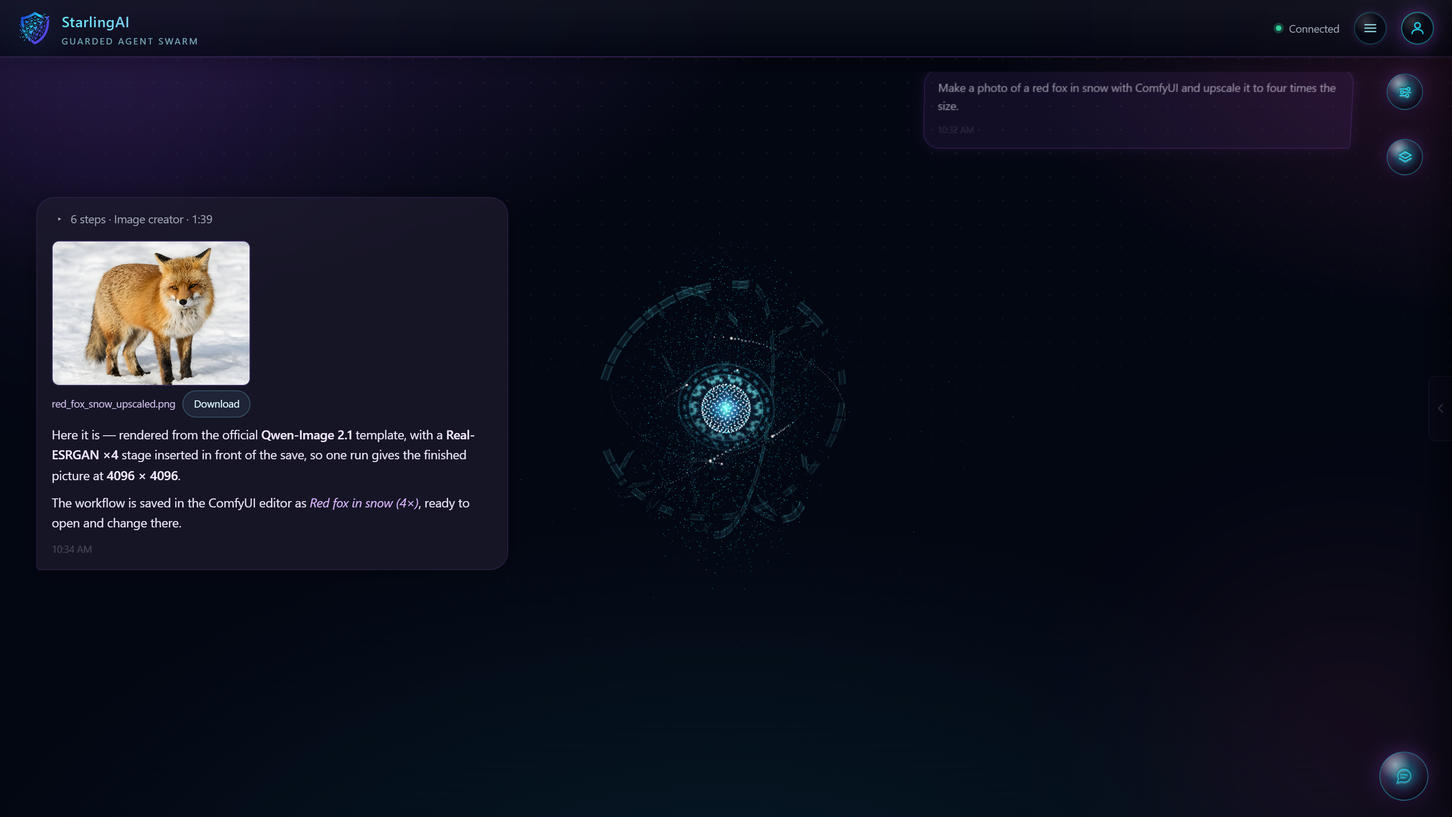
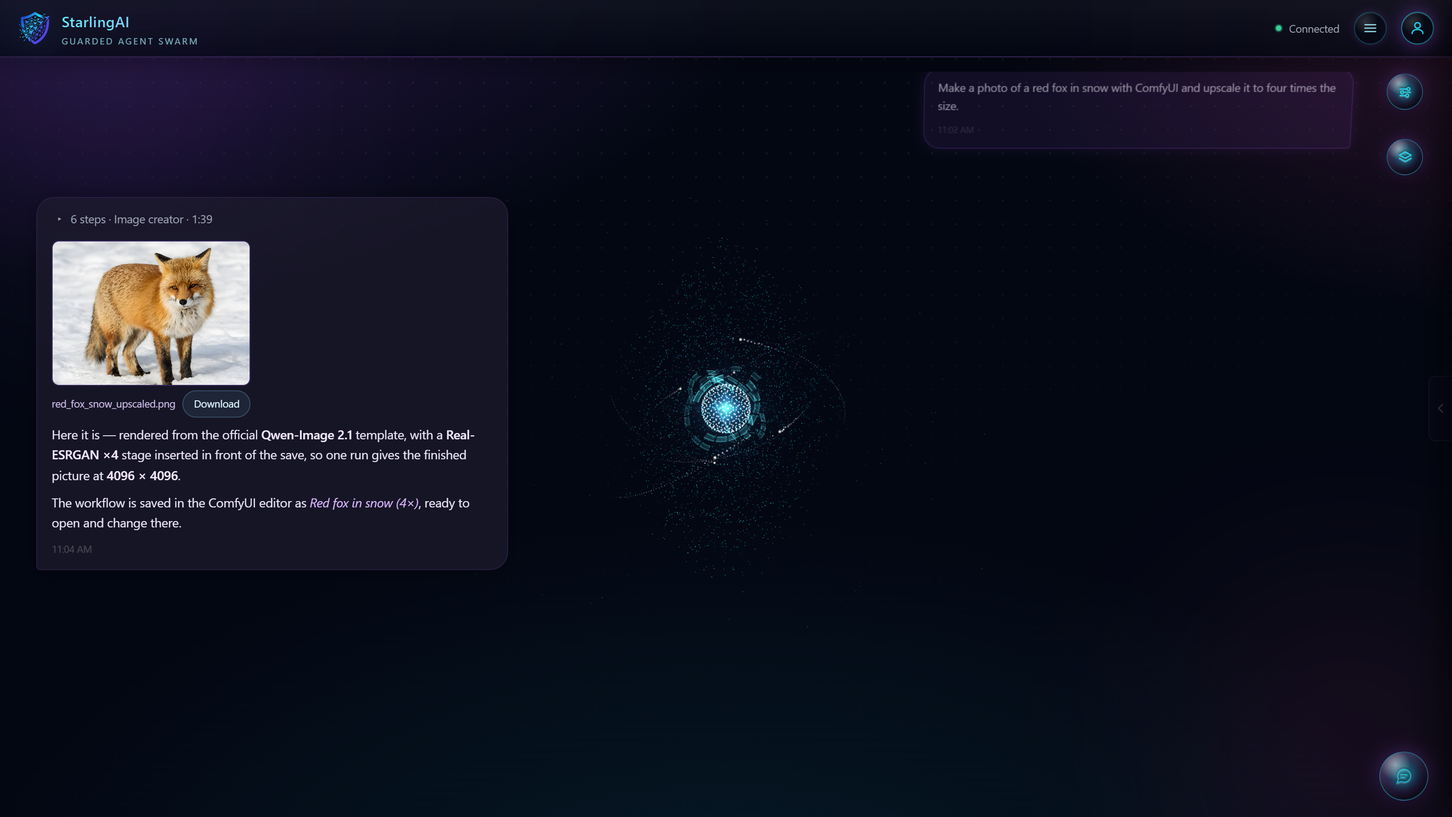
feat(web): the Dyson sphere sits round the orb's core, in place of the bezel
The Dyson parts were a big shell enclosing the whole orb, out at the step
ring's radius, with the arc-reactor bezel still round the core. They
belong where the bezel was: close round the core, as a sphere being built
round it.

shaders/hudRings.ts now holds the sphere (SPHERE_RINGS) and the step ring
only:
- seven panel strips on great circles of two shells hugging the core
  sphere, four at radius 0.56 and three at 0.72, each leaning its own way,
  never complete, spinning on its own axis and swaying a little; the two
  shells turn against each other;
- the bezel (coil, frame circles, dash track) and the outer shell are gone,
  and with them the per-ring pattern switch: every ring draws panels;
- the step ring is unchanged: while a turn runs it assembles round the
  whole orb, past the particle torus, and the page's steps ride on it.

The README hero and ComfyUI shots are reshot, and the caption, the "turn
at the orb" bullet and docs/architecture.md describe the sphere round the
core and the step ring round the orb.

Checked in the real chat page through a throwaway harness: close-ups at
rest, and a running turn at 2000x1500, 1440x900 and 390x800.

Changed region(s): [[0.4375, 0.3422, 0.5625, 0.6533], [0.4375, 0.3733, 0.4688, 0.4044]]

diff --git a/packages/web/src/components/shaders/hudRings.ts b/packages/web/src/components/shaders/hudRings.ts
@@ -1,83 +1,69 @@
-// The HUD around the core, in the orb's own 3D space. Painted into the camera-facing core-glow
-// plane, as it used to be, the bezel and the reticle arcs stayed perfect circles facing the viewer
-// while every orbit around them turned as a tilted ellipse: a flat sticker on a 3D entity.
+// The Dyson sphere round the core, in the orb's own 3D space. The core used to wear an
+// arc-reactor bezel and reticle arcs painted into the camera-facing core-glow plane: perfect
+// circles facing the viewer while every orbit around them turned as a tilted ellipse, a flat
+// sticker on a 3D entity. In their place the core now sits inside a Dyson sphere: strips of panels
+// on great circles of two shells close round it, never complete, each strip turning on its own
+// axis and the two shells turning against each other.
 //
-// Two parts:
-// - the BEZEL, the arc-reactor ring fitted round the core sphere: coil, frame circles, dash track;
-// - the DYSON SHELL round the whole orb: strips of panels on great circles of one sphere, never
-//   complete, turning slowly on their own axes. While a turn runs, one more strip assembles panel
-//   by panel and lights up: the step ring, which the steps on the page ride on
-//   (composables/orbActivity.ts draws them with the same camera).
+// While a turn runs, one more strip of panels assembles round the whole orb and lights up: the
+// step ring, which the steps on the page ride on (composables/orbActivity.ts draws them with the
+// same camera). It sits out past the particle torus, where its steps' labels have room.
 //
-// Each ring is a flat annulus mesh with its own tilt and spin; the fragment shader draws its
-// pattern from the ring's own polar coordinates, its near side brighter than its far side.
-
-/** Which pattern a ring draws (the `uKind` uniform). */
-export const HUD_KIND = { coil: 0, dashes: 1, circle: 2, panels: 6 } as const;
+// Each strip is a flat annulus mesh with its own tilt and spin; the fragment shader draws its
+// panels from the strip's own polar coordinates, its near side brighter than its far side.
 
 export interface HudRingSpec {
-  kind: number;
-  /** Radius in the mesh's own units: orb units for the bezel, 1 for the shell (scaled to its radius). */
+  /** Radius in the mesh's own units: orb units for the sphere, 1 for the step ring (scaled to its radius). */
   radius: number;
-  /** Width of the drawn band (a Gaussian's sigma; for panels, half the strip), same units. */
+  /** Half the strip's width, same units. */
   width: number;
   /** Peak brightness. */
   strength: number;
-  /** The ring plane's tilt, radians, applied X then Y then Z. */
+  /** The strip plane's tilt, radians, applied X then Y then Z. */
   tilt: [number, number, number];
   /** How far the tilt sways, radians; 0 holds the plane still. */
   wobble: number;
-  /** Spin around the ring's own axis, radians per second at rest. */
+  /** Spin around the strip's own axis, radians per second at rest. */
   spin: number;
-  /** Phase offset of the sway and the panel layout, so rings do not repeat each other. */
+  /** Phase offset of the sway and the panel layout, so strips do not repeat each other. */
   seed: number;
-  /** Panels: tiles round the circle, and the share of them that is there. */
-  tiles?: number;
-  coverage?: number;
-  /** How far the colour runs towards white-hot: the step ring's strip stands out from the shell. */
+  /** Panels round the circle, and the share of them that is there. */
+  tiles: number;
+  coverage: number;
+  /** How far the colour runs towards white-hot: the step ring stands out. */
   hot?: number;
 }
 
-const BEZEL_TILT: [number, number, number] = [0.42, -0.3, 0];
-
 /**
- * The bezel hugs the core sphere (radius 0.4) as one machined part: coil, frame circles and dash
- * track share a mild tilt and sway together. Radii and widths are the old plane's (whose UV radius
- * of 1 was 2.2 orb units), so the parts keep their sizes.
+ * The Dyson sphere: an inner shell hugging the core sphere (radius 0.4) where the bezel's coil
+ * was, and an outer one where its frame ended. Their strips lean every way, so together they
+ * read as a sphere being built round the core, not as a ring.
  */
-export const BEZEL_RINGS: readonly HudRingSpec[] = [
-  { kind: HUD_KIND.coil, radius: 0.539, width: 0.040, strength: 1.5, tilt: BEZEL_TILT, wobble: 0.08, spin: 0.16, seed: 0 },
-  { kind: HUD_KIND.circle, radius: 0.605, width: 0.013, strength: 0.7, tilt: BEZEL_TILT, wobble: 0.08, spin: 0, seed: 0 },
-  { kind: HUD_KIND.dashes, radius: 0.693, width: 0.022, strength: 0.9, tilt: BEZEL_TILT, wobble: 0.08, spin: -0.12, seed: 0 },
-  { kind: HUD_KIND.circle, radius: 0.792, width: 0.013, strength: 0.5, tilt: BEZEL_TILT, wobble: 0.08, spin: 0, seed: 0 },
+export const SPHERE_RINGS: readonly HudRingSpec[] = [
+  { radius: 0.56, width: 0.050, strength: 1.9, tilt: [0.35, 0.2, 0], wobble: 0.05, spin: 0.22, seed: 1.3, tiles: 16, coverage: 0.7 },
+  { radius: 0.56, width: 0.050, strength: 1.8, tilt: [1.45, 0.7, 0], wobble: 0.05, spin: -0.18, seed: 2.9, tiles: 16, coverage: 0.6 },
+  { radius: 0.56, width: 0.050, strength: 1.71, tilt: [2.4, -1.0, 0.4], wobble: 0.06, spin: 0.15, seed: 4.2, tiles: 16, coverage: 0.65 },
+  { radius: 0.56, width: 0.050, strength: 1.8, tilt: [0.95, 2.2, 1.1], wobble: 0.05, spin: -0.24, seed: 5.7, tiles: 16, coverage: 0.55 },
+  { radius: 0.72, width: 0.042, strength: 1.27, tilt: [0.7, -0.5, 0.3], wobble: 0.04, spin: -0.12, seed: 7.1, tiles: 22, coverage: 0.5 },
+  { radius: 0.72, width: 0.042, strength: 1.19, tilt: [1.9, 1.3, -0.5], wobble: 0.04, spin: 0.1, seed: 8.8, tiles: 22, coverage: 0.45 },
+  { radius: 0.72, width: 0.042, strength: 1.19, tilt: [2.8, 0.3, 1.4], wobble: 0.05, spin: -0.14, seed: 10.2, tiles: 22, coverage: 0.5 },
 ];
 
-/** The shell's strips, on a sphere of radius 1 that the canvas scales to the step ring's radius. */
-const SHELL_WIDTH = 0.028;
-export const SHELL_RINGS: readonly HudRingSpec[] = [
-  { kind: HUD_KIND.panels, radius: 1, width: SHELL_WIDTH, strength: 0.75, tilt: [0.35, 0.2, 0], wobble: 0.04, spin: 0.05, seed: 1.3, tiles: 44, coverage: 0.55 },
-  { kind: HUD_KIND.panels, radius: 1, width: SHELL_WIDTH, strength: 0.7, tilt: [1.25, 0.65, 0], wobble: 0.04, spin: -0.04, seed: 2.9, tiles: 44, coverage: 0.45 },
-  { kind: HUD_KIND.panels, radius: 1, width: SHELL_WIDTH, strength: 0.65, tilt: [2.05, -0.95, 0.4], wobble: 0.05, spin: 0.035, seed: 4.2, tiles: 40, coverage: 0.5 },
-  { kind: HUD_KIND.panels, radius: 1, width: SHELL_WIDTH, strength: 0.7, tilt: [0.9, 2.1, 1.0], wobble: 0.04, spin: -0.06, seed: 5.7, tiles: 48, coverage: 0.4 },
-  { kind: HUD_KIND.panels, radius: 1, width: SHELL_WIDTH, strength: 0.6, tilt: [2.6, 1.3, -0.5], wobble: 0.05, spin: 0.045, seed: 7.1, tiles: 40, coverage: 0.6 },
-  { kind: HUD_KIND.panels, radius: 1, width: SHELL_WIDTH, strength: 0.65, tilt: [1.6, -2.2, 0.8], wobble: 0.04, spin: -0.03, seed: 8.8, tiles: 44, coverage: 0.5 },
-];
-
-/** The step ring's strip: every panel there, brighter, built round the circle as a turn starts. */
+/** The step ring's strip: every panel there, white-hot, built round the circle as a turn starts. */
 export const STEP_RING: HudRingSpec = {
-  kind: HUD_KIND.panels, radius: 1, width: SHELL_WIDTH * 1.25, strength: 1.9, tilt: [0, 0, 0], wobble: 0, spin: 0.08, seed: 11.4, tiles: 56, coverage: 1, hot: 0.55,
+  radius: 1, width: 0.035, strength: 1.9, tilt: [0, 0, 0], wobble: 0, spin: 0.08, seed: 11.4, tiles: 56, coverage: 1, hot: 0.55,
 };
 
 export const hudRingVertexShader = `
   uniform float uRadius;
-  varying vec2  vLocal;   // the point in the ring's own plane
-  varying float vNear;    // 0 on the far side of the ring, 1 on the near side
+  varying vec2  vLocal;   // the point in the strip's own plane
+  varying float vNear;    // 0 on the far side of the strip, 1 on the near side
 
   void main() {
     vLocal = position.xy;
     vec4 mv     = modelViewMatrix * vec4(position, 1.0);
     vec4 centre = modelViewMatrix * vec4(0.0, 0.0, 0.0, 1.0);
-    // The ring's radius as the camera sees it, whatever the mesh and the orb are scaled by.
+    // The strip's radius as the camera sees it, whatever the mesh and the orb are scaled by.
     float seen  = length((modelViewMatrix * vec4(uRadius, 0.0, 0.0, 0.0)).xyz);
     // The camera looks down -z: a point nearer to it has the larger z.
     vNear = clamp((mv.z - centre.z) / seen * 0.5 + 0.5, 0.0, 1.0);
@@ -89,15 +75,14 @@ export const hudRingFragmentShader = `
   uniform vec3  uCoreColor;
   uniform float uIntensity;
   uniform float uGlowPhase;
-  uniform float uKind;
   uniform float uRadius;
   uniform float uWidth;
   uniform float uStrength;
   uniform float uTiles;
   uniform float uCoverage;
   uniform float uSeed;
-  uniform float uAssemble;   // panels: how far round the circle the strip is built, 0..1
-  uniform float uHot;        // panels: extra white-hot share, for the step ring's strip
+  uniform float uAssemble;   // how far round the circle the strip is built, 0..1
+  uniform float uHot;        // extra white-hot share, for the step ring
 
   varying vec2  vLocal;
   varying float vNear;
@@ -112,39 +97,21 @@ export const hudRingFragmentShader = `
   }
 
   void main() {
-    float r = length(vLocal);
-    float u = atan(vLocal.y, vLocal.x) / TAU;
-    float lum;
-    float hotMix = 0.0;
+    float r   = length(vLocal);
+    float pos = fract(atan(vLocal.y, vLocal.x) / TAU + 1.0);
 
-    if (uKind < 0.5) {
-      // coil: ten segments, the radius alternating per tooth so it reads as a notched gear
-      float seg   = gap(fract(u * 10.0), 0.08, 0.18, 0.82, 0.92);
-      float tooth = step(0.5, fract(u * 20.0));
-      lum = band(r, uRadius * mix(0.96, 1.04, tooth), uWidth) * seg;
-      hotMix = 0.3;
-    } else if (uKind < 1.5) {
-      // dash track
-      lum = band(r, uRadius, uWidth) * gap(fract(u * 24.0), 0.18, 0.32, 0.68, 0.82);
-    } else if (uKind < 2.5) {
-      // fine circle framing the coil
-      lum = band(r, uRadius, uWidth);
-    } else {
-      // Dyson panels: tiles along a strip, a share of them missing; the strip is built round the
-      // circle up to uAssemble
-      float pos   = fract(u + 1.0);
-      float idx   = floor(pos * uTiles);
-      float tile  = gap(fract(pos * uTiles), 0.04, 0.09, 0.91, 0.96);
-      float h     = fract(sin(idx * 12.9898 + uSeed * 78.233) * 43758.5453);
-      float there = step(h, uCoverage);
-      float built = 1.0 - smoothstep(uAssemble - 0.03, uAssemble, pos);
-      float off   = abs(r - uRadius);
-      float fill  = 1.0 - smoothstep(uWidth * 0.7, uWidth, off);
-      float edge  = band(off, uWidth * 0.85, uWidth * 0.16);
-      float shimmer = 0.75 + 0.25 * sin(uGlowPhase * 0.6 + h * TAU);
-      lum = (fill * (0.28 + 0.3 * h) * shimmer + edge * 0.7) * tile * there * built;
-      hotMix = 0.15 + uHot;
-    }
+    // Panels along the strip, a share of them missing; the strip is built round the circle up to
+    // uAssemble.
+    float idx   = floor(pos * uTiles);
+    float tile  = gap(fract(pos * uTiles), 0.04, 0.09, 0.91, 0.96);
+    float h     = fract(sin(idx * 12.9898 + uSeed * 78.233) * 43758.5453);
+    float there = step(h, uCoverage);
+    float built = 1.0 - smoothstep(uAssemble - 0.03, uAssemble, pos);
+    float off   = abs(r - uRadius);
+    float fill  = 1.0 - smoothstep(uWidth * 0.7, uWidth, off);
+    float edge  = band(off, uWidth * 0.85, uWidth * 0.16);
+    float shimmer = 0.75 + 0.25 * sin(uGlowPhase * 0.6 + h * TAU);
+    float lum = (fill * (0.28 + 0.3 * h) * shimmer + edge * 0.7) * tile * there * built;
 
     float pulse   = 0.88 + 0.12 * sin(uGlowPhase);
     float flicker = 1.0 + 0.05 * sin(uGlowPhase * 9.7) * sin(uGlowPhase * 23.3);
@@ -153,11 +120,11 @@ export const hudRingFragmentShader = `
     lum *= uStrength * uIntensity * pulse * flicker * depth;
 
     vec3 hot = mix(uCoreColor, vec3(1.0), 0.55);
-    vec3 col = uCoreColor * lum + hot * lum * hotMix;
+    vec3 col = uCoreColor * lum + hot * lum * (0.15 + uHot);
     // Additive blending scales the colour by alpha. With the brightness as alpha and the colour
-    // left as it is, as the core glow does, a ring counted its brightness twice and came out faint;
-    // alpha 1 made the transparent canvas opaque along every strip, a black band over the page.
-    // So alpha stays the brightness, and the colour is divided by it to be added exactly once.
+    // left as it is, as the core glow does, a strip counted its brightness twice and came out
+    // faint; alpha 1 made the transparent canvas opaque along every strip, a black band over the
+    // page. So alpha stays the brightness, and the colour is divided by it to be added once.
     float alpha = clamp(lum, 0.0, 1.0);
     gl_FragColor = vec4(col / max(alpha, 0.001), alpha);
   }

diff --git a/packages/web/src/components/OrbCanvas.vue b/packages/web/src/components/OrbCanvas.vue
@@ -19,12 +19,12 @@ import {
   coreGlowVertexShader, coreGlowFragmentShader,
 } from "./shaders/orbitalSystem";
 import { ambientVertexShader, ambientFragmentShader } from "./shaders/ambientSystem";
-import { BEZEL_RINGS, SHELL_RINGS, STEP_RING, hudRingFragmentShader, hudRingVertexShader, type HudRingSpec } from "./shaders/hudRings";
+import { SPHERE_RINGS, STEP_RING, hudRingFragmentShader, hudRingVertexShader, type HudRingSpec } from "./shaders/hudRings";
 
 /**
  * The step ring (composables/orbActivity.ts activityRing): its radius in orb units, how far it is
- * tipped towards the viewer, and whether a turn is running on it. The Dyson shell shares its
- * radius; the ring's own strip assembles while `active`.
+ * tipped towards the viewer, and whether a turn is running on it: its strip assembles while
+ * `active`.
  */
 interface StepRingProp { radius: number; tilt: number; active: boolean }
 const props = withDefaults(defineProps<{ aiState?: string; ring?: StepRingProp }>(), {
@@ -284,19 +284,18 @@ let orbitalPoints: THREE.Points;
 let ambientPoints: THREE.Points;
 let coreGlowMesh:  THREE.Mesh;
 /**
- * The HUD in 3D (shaders/hudRings.ts), each ring a tilted pivot holding a spinning mesh: the bezel
- * round the core, the Dyson shell round the orb, and the step ring's strip. The strip lives outside
- * the breathing orb group, at the orb's fixed scale, so it stays exactly where the page draws the
- * steps.
+ * The Dyson sphere round the core and the step ring (shaders/hudRings.ts), each strip a tilted
+ * pivot holding a spinning mesh. The sphere's two shells turn against each other. The step ring
+ * lives outside the breathing orb group, at the orb's fixed scale, so it stays exactly where the
+ * page draws the steps.
  */
 interface HudRing { pivot: THREE.Group; mesh: THREE.Mesh; spec: HudRingSpec }
-let hudGroup:      THREE.Group;
-let shellGroup:    THREE.Group;
+let innerShell:    THREE.Group;
+let outerShell:    THREE.Group;
 let stepGroup:     THREE.Group;
-let hudRings:      HudRing[] = [];
-let shellRings:    HudRing[] = [];
+let sphereRings:   HudRing[] = [];
 let stepRing:      HudRing | null = null;
-let shellRadius    = 2.4;
+let stepRadius     = 2.4;
 let stepAssemble   = 0;
 let torusUniforms: Record<string, THREE.IUniform>;
 let sphereUniforms: Record<string, THREE.IUniform>;
@@ -672,9 +671,9 @@ function animate() {
   sphereGroup.rotation.y = neuralSphereRotation;
   sphereGroup.scale.setScalar(cv.neuralSphereScale);
 
-  // ── HUD rings: each plane sways a little about its tilt, each ring spins on its own axis, and
-  // the whole set precesses slowly, so the rings keep showing they are rings in space ─────────
-  for (const { pivot, mesh, spec } of [...hudRings, ...shellRings]) {
+  // ── Dyson sphere: each strip's plane sways a little about its tilt and the strip spins on its
+  // own axis, and the two shells turn against each other, so the sphere keeps showing its depth ──
+  for (const { pivot, mesh, spec } of sphereRings) {
     pivot.rotation.set(
       spec.tilt[0] + spec.wobble * Math.sin(hudPhase * 0.31 + spec.seed),
       spec.tilt[1] + spec.wobble * Math.cos(hudPhase * 0.23 + spec.seed),
@@ -682,19 +681,18 @@ function animate() {
     );
     mesh.rotation.z = spec.spin * hudPhase;
   }
-  hudGroup.rotation.y = hudPhase * 0.06;
-  // The shell turns slowly as a whole too, and follows the step ring's radius (it changes with the
-  // window), easing so a resize does not jump.
-  shellRadius += (props.ring.radius - shellRadius) * Math.min(1, delta * 4);
-  shellGroup.scale.setScalar(shellRadius);
-  shellGroup.rotation.y = hudPhase * 0.025;
+  innerShell.rotation.y = hudPhase * 0.08;
+  outerShell.rotation.y = -hudPhase * 0.05;
+  // The step ring follows the page's ring radius (it changes with the window), easing so a resize
+  // does not jump.
+  stepRadius += (props.ring.radius - stepRadius) * Math.min(1, delta * 4);
   // The step ring's strip: built round the circle while a turn runs, taken down after it. Its
   // plane is the page's (ringPosition): tipped from edge-on so its front is below the orb.
   if (stepRing) {
     const target = props.ring.active ? 1 : 0;
     stepAssemble += (target - stepAssemble) * Math.min(1, delta * (target ? 0.9 : 1.6));
     if (target === 0 && stepAssemble < 0.002) stepAssemble = 0;
-    stepGroup.scale.setScalar(ORB_SCALE * shellRadius);
+    stepGroup.scale.setScalar(ORB_SCALE * stepRadius);
     stepRing.pivot.rotation.set(Math.PI / 2 + props.ring.tilt, 0, 0);
     stepRing.mesh.rotation.z = STEP_RING.spin * hudPhase;
     const material = stepRing.mesh.material as THREE.ShaderMaterial;
@@ -844,10 +842,10 @@ onMounted(() => {
   coreGlowMesh.position.z = -0.05;
   orbGroup.add(coreGlowMesh);
 
-  // HUD rings in the orb's own space: the core glow's colour, intensity and phase drive them, so a
-  // state change recolours them with the core.
+  // The Dyson sphere and the step ring in the orb's own space: the core glow's colour, intensity
+  // and phase drive them, so a state change recolours them with the core.
   const makeRing = (spec: HudRingSpec, parent: THREE.Group): HudRing => {
-    const reach = 3 * spec.width + (spec.kind === 0 ? spec.radius * 0.04 : 0);
+    const reach = 3 * spec.width;
     const mesh = new THREE.Mesh(
       new THREE.RingGeometry(Math.max(0.01, spec.radius - reach), spec.radius + reach, 256, 1),
       new THREE.ShaderMaterial({
@@ -856,12 +854,11 @@ onMounted(() => {
           uCoreColor: coreUniforms["uCoreColor"]!,
           uIntensity: coreUniforms["uIntensity"]!,
           uGlowPhase: coreUniforms["uGlowPhase"]!,
-          uKind:      { value: spec.kind },
           uRadius:    { value: spec.radius },
           uWidth:     { value: spec.width },
           uStrength:  { value: spec.strength },
-          uTiles:     { value: spec.tiles ?? 1 },
-          uCoverage:  { value: spec.coverage ?? 1 },
+          uTiles:     { value: spec.tiles },
+          uCoverage:  { value: spec.coverage },
           uSeed:      { value: spec.seed },
           uAssemble:  { value: 1 },
           uHot:       { value: spec.hot ?? 0 },
@@ -875,16 +872,14 @@ onMounted(() => {
     parent.add(pivot);
     return { pivot, mesh, spec };
   };
-  hudGroup = new THREE.Group();
-  hudRings = BEZEL_RINGS.map((spec) => makeRing(spec, hudGroup));
-  orbGroup.add(hudGroup);
-  shellRadius = props.ring.radius;
-  shellGroup = new THREE.Group();
-  shellGroup.scale.setScalar(shellRadius);
-  shellRings = SHELL_RINGS.map((spec) => makeRing(spec, shellGroup));
-  orbGroup.add(shellGroup);
+  innerShell = new THREE.Group();
+  outerShell = new THREE.Group();
+  const innerRadius = Math.min(...SPHERE_RINGS.map((spec) => spec.radius));
+  sphereRings = SPHERE_RINGS.map((spec) => makeRing(spec, spec.radius === innerRadius ? innerShell : outerShell));
+  orbGroup.add(innerShell, outerShell);
+  stepRadius = props.ring.radius;
   stepGroup = new THREE.Group();
-  stepGroup.scale.setScalar(ORB_SCALE * shellRadius);
+  stepGroup.scale.setScalar(ORB_SCALE * stepRadius);
   stepRing = makeRing(STEP_RING, stepGroup);
   stepRing.mesh.visible = false;
   scene.add(stepGroup);
@@ -940,12 +935,11 @@ onUnmounted(() => {
   (ambientPoints?.material as THREE.Material | undefined)?.dispose();
   coreGlowMesh?.geometry.dispose();
   (coreGlowMesh?.material as THREE.Material | undefined)?.dispose();
-  for (const { mesh } of [...hudRings, ...shellRings, ...(stepRing ? [stepRing] : [])]) {
+  for (const { mesh } of [...sphereRings, ...(stepRing ? [stepRing] : [])]) {
     mesh.geometry.dispose();
     (mesh.material as THREE.Material).dispose();
   }
-  hudRings = [];
-  shellRings = [];
+  sphereRings = [];
   stepRing = null;
   renderer?.dispose();
 });

diff --git a/README.md b/README.md
@@ -12,8 +12,8 @@
 
 [Quick Start](#quick-start) · [What it does](#what-the-swarm-can-do) · [Architecture](docs/architecture.md) · [API](docs/api.md) · [Security](docs/security.md)
 
-<img src="assets/screenshots/chat-turn-at-orb.png" alt="The StarlingAI dashboard during a research turn — a Dyson shell of panel strips surrounds the particle orb, one strip lit up as the turn's step ring with its steps riding on it, the newest in front, and a status line under the orb saying what the swarm is doing; the question sits on the right, an earlier answer on the left" width="100%" />
-<sub><em>The swarm at work. A Dyson shell surrounds the orb; while a turn runs, one of its strips lights up and carries the turn's steps — the newest in front — and one line beneath says what it is doing right now.</em></sub>
+<img src="assets/screenshots/chat-turn-at-orb.png" alt="The StarlingAI dashboard during a research turn — strips of a Dyson sphere turn close round the orb's core, a ring of lit panels round the orb carries the turn's steps, the newest in front, and a status line under the orb saying what the swarm is doing; the question sits on the right, an earlier answer on the left" width="100%" />
+<sub><em>The swarm at work. A Dyson sphere is being built round the orb's core; while a turn runs, a ring of lit panels assembles round the orb and carries the turn's steps — the newest in front — and one line beneath says what it is doing right now.</em></sub>
 
 </div>
 
@@ -190,7 +190,7 @@ pnpm sai dev web               # start web UI in dev mode
 <br/><sub><em>Swarm Health: the warden's live view — alerts, capability gaps, tool promotions, paused tasks, circuit breakers.</em></sub>
 </div>
 
-- **The turn at the orb** — the orb sits inside a slowly turning Dyson shell of panel strips. While a turn runs, one more strip assembles around it and its steps ride on it, and one status line under the orb says, in the swarm's own words, what it is doing now: its plan, a finished step, that it is still on it. The conversation keeps only questions and answers; each answer folds its steps into one line that opens the full record, and any step opens in the side panel.
+- **The turn at the orb** — the orb's core sits inside a Dyson sphere of panel strips, each turning on its own axis. While a turn runs, a ring of lit panels assembles round the whole orb and the turn's steps ride on it, and one status line under the orb says, in the swarm's own words, what it is doing now: its plan, a finished step, that it is still on it. The conversation keeps only questions and answers; each answer folds its steps into one line that opens the full record, and any step opens in the side panel.
 - **Live observability** — token streaming to the dashboard via AG-UI SSE, live shell previews, per-turn performance telemetry, and audit/debug Markdown exports on top of a JSONL + PostgreSQL audit trail.
 - **Distributed tracing** — OpenTelemetry spans cover tool calls, sub-agents, and federation hops, with W3C `traceparent` propagated across instances.
 - **Cost governance** — token usage aggregated with per-model pricing and budget thresholds on a `/cost` dashboard. (Per-task limits are post-run signals today; atomic mission-wide budgets are on the roadmap.)

diff --git a/docs/architecture.md b/docs/architecture.md
@@ -579,9 +579,9 @@ packages/
       components/           (15) MessageBubble.vue — chat message renderer
                             LoginModal.vue — JWT login
                             OrbCanvas.vue — Three.js swarm visualizer: particle orb,
-                              arc-reactor bezel and Dyson shell in 3D
+                              Dyson sphere round the core, step ring in 3D
                             OrbActivity.vue — the running turn at the orb: its steps on
-                              the shell's step ring, its newest words in a status line
+                              the orb's step ring, its newest words in a status line
                             SwarmStatusPanel.vue — live agent and bus status
                             BrowserSessionPanel.vue · ComputerSessionPanel.vue ·
                               ShellSessionPanel.vue — live operator docks

diff --git a/docs/reference/config-flags.md b/docs/reference/config-flags.md
@@ -349,7 +349,7 @@ Every public schema field, where it is declared, and how many production files r
 | `passwordHash` | packages/core/src/config/schema.ts:406 | 5 |
 | `passwordSelector` | packages/core/src/config/schema.ts:867 | 5 |
 | `path` | packages/core/src/config/schemas/decisions.ts:130 | 347 |
-| `pattern` | packages/core/src/config/schema.ts:1433 | 69 |
+| `pattern` | packages/core/src/config/schema.ts:1433 | 68 |
 | `patterns` | packages/core/src/config/schema.ts:1370 | 28 |
 | `pdf` | packages/core/src/config/schemas/render.ts:18 | 32 |
 | `peers` | packages/core/src/config/schema.ts:664 | 16 |
